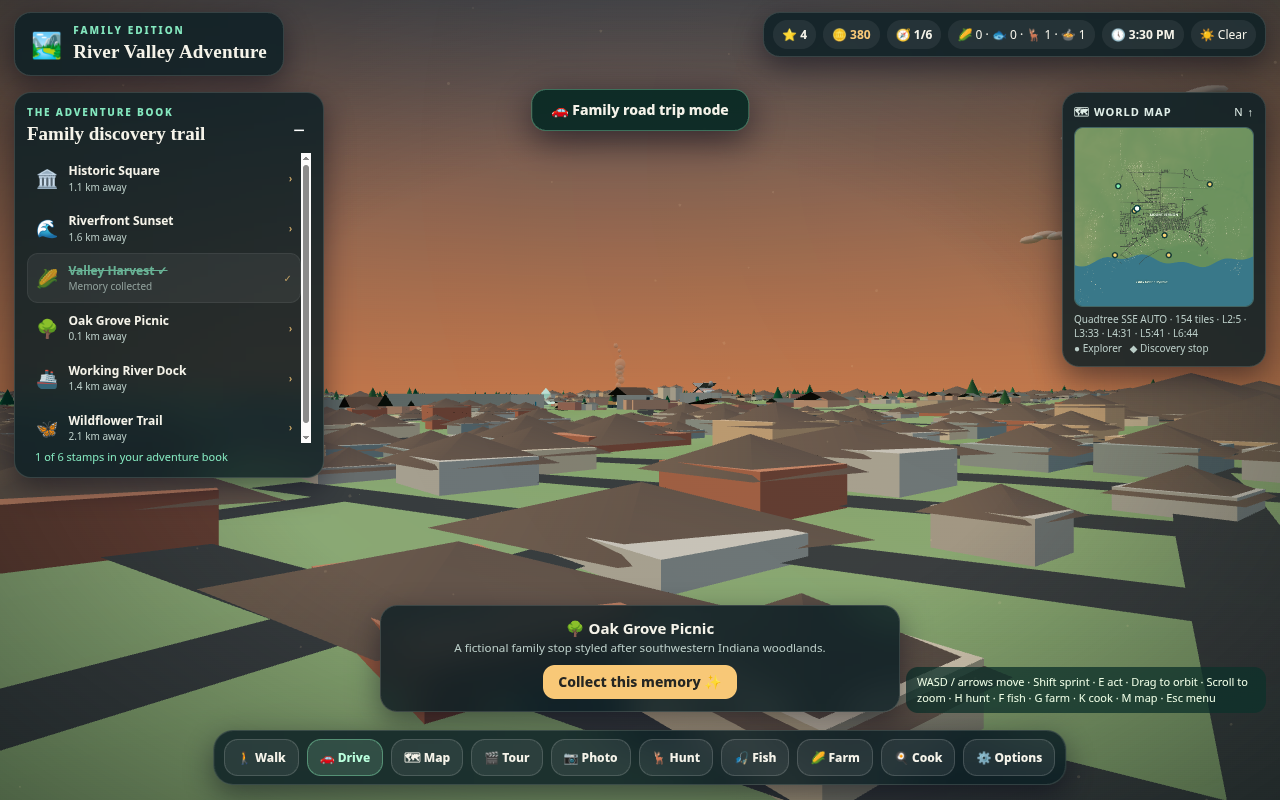
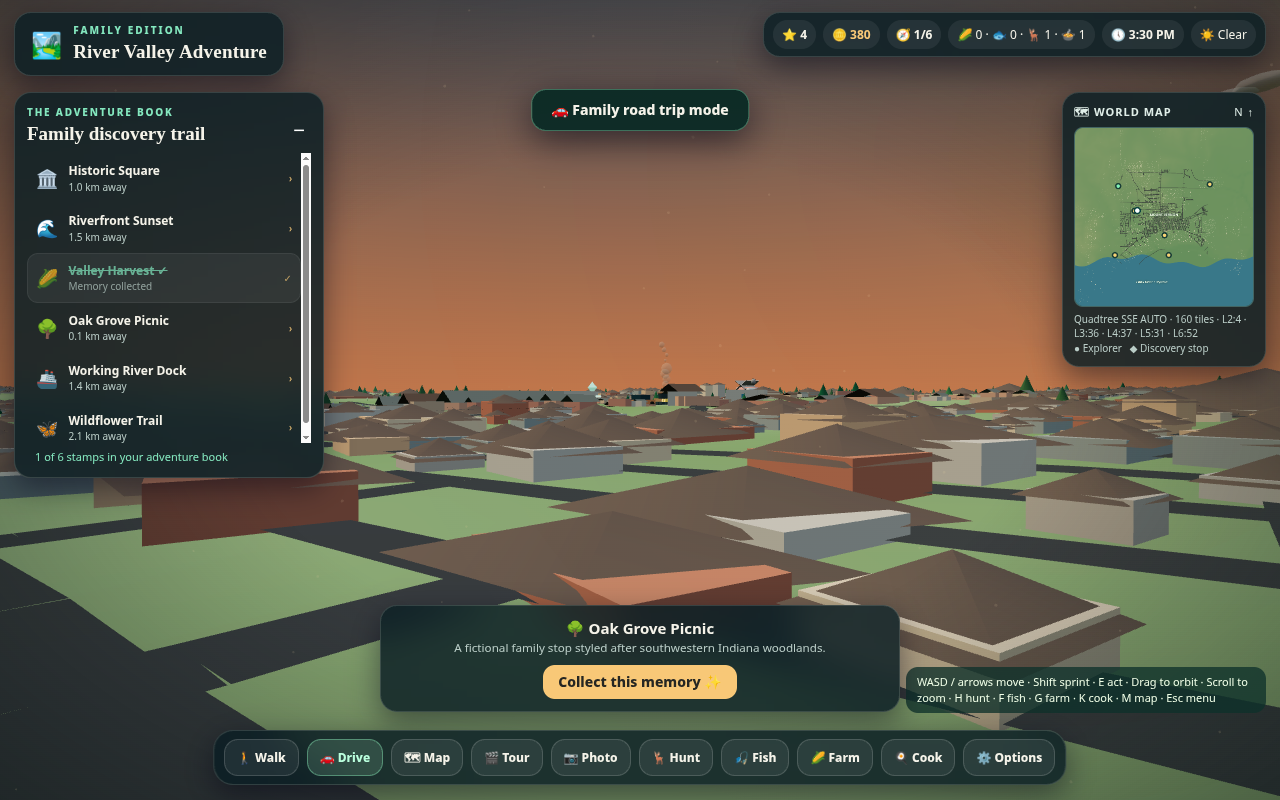
fix(game): keep 3D activity sites in view and verify four world locations

diff --git a/game/River_Valley_Family_Adventure_OFFLINE.html b/game/River_Valley_Family_Adventure_OFFLINE.html
@@ -647,6 +647,7 @@ const SITES=Object.freeze({
  cook:{x:-740,z:-210,title:'Oak Grove Camp Kitchen',label:'🍳 Country Kitchen',kind:'kitchen'}
 });
 function closestSite(p,radius=130){let match=null,d=Infinity;for(const [id,s] of Object.entries(SITES)){const ds=Math.hypot(p.x-s.x,p.z-s.z);if(ds<radius&&ds<d){d=ds;match=id;}}return match;}
+function approachSite(id,yaw=0,distance=34){const site=SITES[id];if(!site)return null;const a=Number.isFinite(yaw)?yaw:0,d=Number.isFinite(distance)?Math.max(0,Math.min(distance,100)):34;return {x:site.x+Math.sin(a)*d,z:site.z+Math.cos(a)*d};}
 function farmPick(save,now){const a=save.farmPlots||[],ready=a.findIndex(t=>t>0&&t<=now);if(ready>=0)return {index:ready,action:'harvest'};const empty=a.findIndex(t=>t===0);if(empty>=0)return {index:empty,action:'plant'};return {index:0,action:'growing'};}
 function sceneWorld(T,scene,ground){
  const root=new T.Group();root.name='River Valley in-world activities';scene.add(root);
@@ -716,7 +717,7 @@ function sceneWorld(T,scene,ground){
  };
  return world;
 }
-return {SITES,closestSite,farmPick,sceneWorld};
+return {SITES,closestSite,approachSite,farmPick,sceneWorld};
 });
 </script><script>/* River Valley Family Adventure: self-contained local-only browser game.
    No network endpoints, no trackers, no external audio, and no repository integration. */
@@ -1151,7 +1152,7 @@ function openWorldActivity(id){
  if(!WORLD.SITES[id])return;
  closeActivity();$('farmPanel').classList.remove('open');$('panel').classList.remove('open');closeCinema();
  const loc=WORLD.SITES[id];worldActive=id;worldHuntRound=null;worldFishRound=null;worldAim=.5;worldStatus='';
- player.x=loc.x;player.z=loc.z-25;playerHeading=0;
+ const approach=WORLD.approachSite(id,cameraYaw,34);player.x=approach.x;player.z=approach.z;playerHeading=cameraYaw;cameraDist=Math.min(cameraDist,43);
  $('worldAim').value='50';$('worldActivityHud').hidden=false;
  showWorldActivity();persist();toast(`🌍 ${loc.title}: play right inside the 3D world.`);
 }

diff --git a/game/game.html b/game/game.html
@@ -647,6 +647,7 @@ const SITES=Object.freeze({
  cook:{x:-740,z:-210,title:'Oak Grove Camp Kitchen',label:'🍳 Country Kitchen',kind:'kitchen'}
 });
 function closestSite(p,radius=130){let match=null,d=Infinity;for(const [id,s] of Object.entries(SITES)){const ds=Math.hypot(p.x-s.x,p.z-s.z);if(ds<radius&&ds<d){d=ds;match=id;}}return match;}
+function approachSite(id,yaw=0,distance=34){const site=SITES[id];if(!site)return null;const a=Number.isFinite(yaw)?yaw:0,d=Number.isFinite(distance)?Math.max(0,Math.min(distance,100)):34;return {x:site.x+Math.sin(a)*d,z:site.z+Math.cos(a)*d};}
 function farmPick(save,now){const a=save.farmPlots||[],ready=a.findIndex(t=>t>0&&t<=now);if(ready>=0)return {index:ready,action:'harvest'};const empty=a.findIndex(t=>t===0);if(empty>=0)return {index:empty,action:'plant'};return {index:0,action:'growing'};}
 function sceneWorld(T,scene,ground){
  const root=new T.Group();root.name='River Valley in-world activities';scene.add(root);
@@ -716,7 +717,7 @@ function sceneWorld(T,scene,ground){
  };
  return world;
 }
-return {SITES,closestSite,farmPick,sceneWorld};
+return {SITES,closestSite,approachSite,farmPick,sceneWorld};
 });
 </script><script>/* River Valley Family Adventure: self-contained local-only browser game.
    No network endpoints, no trackers, no external audio, and no repository integration. */
@@ -1151,7 +1152,7 @@ function openWorldActivity(id){
  if(!WORLD.SITES[id])return;
  closeActivity();$('farmPanel').classList.remove('open');$('panel').classList.remove('open');closeCinema();
  const loc=WORLD.SITES[id];worldActive=id;worldHuntRound=null;worldFishRound=null;worldAim=.5;worldStatus='';
- player.x=loc.x;player.z=loc.z-25;playerHeading=0;
+ const approach=WORLD.approachSite(id,cameraYaw,34);player.x=approach.x;player.z=approach.z;playerHeading=cameraYaw;cameraDist=Math.min(cameraDist,43);
  $('worldAim').value='50';$('worldActivityHud').hidden=false;
  showWorldActivity();persist();toast(`🌍 ${loc.title}: play right inside the 3D world.`);
 }

diff --git a/game/src/open-world.js b/game/src/open-world.js
@@ -10,6 +10,7 @@ const SITES=Object.freeze({
  cook:{x:-740,z:-210,title:'Oak Grove Camp Kitchen',label:'🍳 Country Kitchen',kind:'kitchen'}
 });
 function closestSite(p,radius=130){let match=null,d=Infinity;for(const [id,s] of Object.entries(SITES)){const ds=Math.hypot(p.x-s.x,p.z-s.z);if(ds<radius&&ds<d){d=ds;match=id;}}return match;}
+function approachSite(id,yaw=0,distance=34){const site=SITES[id];if(!site)return null;const a=Number.isFinite(yaw)?yaw:0,d=Number.isFinite(distance)?Math.max(0,Math.min(distance,100)):34;return {x:site.x+Math.sin(a)*d,z:site.z+Math.cos(a)*d};}
 function farmPick(save,now){const a=save.farmPlots||[],ready=a.findIndex(t=>t>0&&t<=now);if(ready>=0)return {index:ready,action:'harvest'};const empty=a.findIndex(t=>t===0);if(empty>=0)return {index:empty,action:'plant'};return {index:0,action:'growing'};}
 function sceneWorld(T,scene,ground){
  const root=new T.Group();root.name='River Valley in-world activities';scene.add(root);
@@ -79,5 +80,5 @@ function sceneWorld(T,scene,ground){
  };
  return world;
 }
-return {SITES,closestSite,farmPick,sceneWorld};
+return {SITES,closestSite,approachSite,farmPick,sceneWorld};
 });

diff --git a/game/src/game.js b/game/src/game.js
@@ -431,7 +431,7 @@ function openWorldActivity(id){
  if(!WORLD.SITES[id])return;
  closeActivity();$('farmPanel').classList.remove('open');$('panel').classList.remove('open');closeCinema();
  const loc=WORLD.SITES[id];worldActive=id;worldHuntRound=null;worldFishRound=null;worldAim=.5;worldStatus='';
- player.x=loc.x;player.z=loc.z-25;playerHeading=0;
+ const approach=WORLD.approachSite(id,cameraYaw,34);player.x=approach.x;player.z=approach.z;playerHeading=cameraYaw;cameraDist=Math.min(cameraDist,43);
  $('worldAim').value='50';$('worldActivityHud').hidden=false;
  showWorldActivity();persist();toast(`🌍 ${loc.title}: play right inside the 3D world.`);
 }

diff --git a/game/tests/capture_inworld_scenes.py b/game/tests/capture_inworld_scenes.py
@@ -1,0 +1,32 @@
+"""Record authentic Mesa software-OpenGL world frames for a gameplay showcase.
+These are actual rendered screenshots, not full motion-capture video frames.
+"""
+from pathlib import Path
+from bs4 import BeautifulSoup
+from playwright.sync_api import sync_playwright
+import json
+root=Path(__file__).resolve().parent.parent
+soup=BeautifulSoup((root/'River_Valley_Family_Adventure_OFFLINE.html').read_text(),'html.parser')
+stub=soup.new_tag('script');stub.string="""window.__store={};Object.defineProperty(window,'localStorage',{configurable:true,value:{getItem:k=>__store[k]??null,setItem:(k,v)=>__store[k]=String(v),removeItem:k=>delete __store[k]}});""";soup.head.insert(0,stub)
+images=[];errors=[]
+with sync_playwright() as p:
+ b=p.chromium.launch(executable_path='/usr/bin/chromium',headless=False,args=['--no-sandbox','--use-gl=angle','--use-angle=gl','--ignore-gpu-blocklist','--enable-webgl','--disable-dev-shm-usage'])
+ pg=b.new_page(viewport={'width':1280,'height':720})
+ pg.on('pageerror',lambda e: errors.append(str(e)))
+ pg.set_content(str(soup),wait_until='domcontentloaded',timeout=45000)
+ pg.evaluate("document.getElementById('playBtn').click()")
+ for label,init in [
+  ('explore',"document.getElementById('missions').style.display='none';RiverValleyDebug.closeWorldActivity();"),
+  ('hunting',"RiverValleyDebug.openWorldActivity('hunt');RiverValleyDebug.worldAction('track');"),
+  ('fishing',"RiverValleyDebug.openWorldActivity('fish');RiverValleyDebug.worldAction('cast');"),
+  ('farming',"RiverValleyDebug.teleport('farm');RiverValleyDebug.complete();RiverValleyDebug.openWorldActivity('farm');RiverValleyDebug.worldAction('plot');"),
+  ('cooking',"RiverValleyDebug.openWorldActivity('cook');")
+ ]:
+  pg.evaluate(init)
+  pg.wait_for_timeout(900)
+  path=root/'docs'/f'v17-3d-{label}.png'
+  pg.screenshot(path=str(path),timeout=20000)
+  images.append(str(path))
+ b.close()
+print(json.dumps({'images':images,'errors':errors}))
+if errors: raise SystemExit(1)

diff --git a/game/docs/OPEN_WORLD_V1_7_RELEASE.md b/game/docs/OPEN_WORLD_V1_7_RELEASE.md
@@ -13,7 +13,7 @@
 
 ## Test evidence — November 21, 2026
 
-- `node --test tests/test-*.cjs`: **41 tests passed** including PWA relative paths, gameplay, LOD, geometry and asset validation (re-run after changes).
+- `node --test tests/test-*.cjs`: **44 tests passed** including PWA relative paths, gameplay, LOD, geometry and asset validation (re-run after changes).
 - `xvfb-run -a python tests/inworld_real_webgl_e2e.py`: **13 checks passed** with no page errors. Chromium rendered with Mesa software OpenGL, not a simulated Three.js renderer. The checks cover scene initialization, all four sites, harvesting, hunting, catching, cooking, driving and save rehydration with test localStorage.
 - Screenshot `docs/v17-inworld-browser-verified.png` is a real Chromium software-OpenGL frame. No claim is made about a dedicated consumer GPU.
 - Hosted `game-sw.js` now uses a relative base path so deployments under a repository subdirectory can cache the correct HTML and manifest.
@@ -32,3 +32,5 @@
 - From the repository, open `game/index.html` through a static server or the generated one-file `game/River_Valley_Family_Adventure_OFFLINE.html` in Chrome/Edge. Launch from GitHub Pages when enabled for PWA install on iPhone.
 - Start Exploring → Hunt / Fish / Farm / Cook buttons quick-travel to physical locations. E acts, WASD moves, mouse drag orbits, Shift sprints, M map, Esc close, and Drive changes movement speed.
 - In Windows, `Open_River_Valley_Windows.cmd` opens the game using the local machine's default browser; it is not a native Windows game.
+
+Camera repair: activity quick-travel positions the player on the visible side of each site; follow-camera zoom is capped near 43 local units. New tests/test-world-site-camera.cjs covers all four sites and several camera angles.
